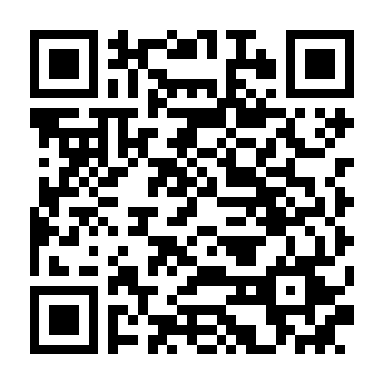
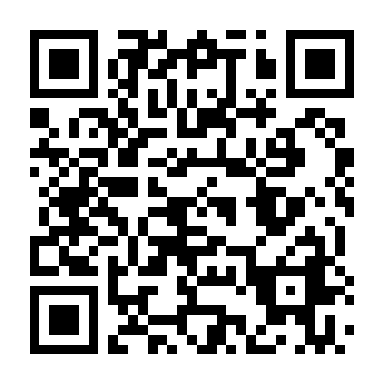
added more PQL/GQ discussion to lec 2.1

diff --git a/F25/lec-2-1/slides-2-1.html b/F25/lec-2-1/slides-2-1.html
@@ -1,21 +1,21 @@
 <!DOCTYPE html>
 <html lang="en"><head>
-<script src="slides-3_files/libs/clipboard/clipboard.min.js"></script>
-<script src="slides-3_files/libs/quarto-html/tabby.min.js"></script>
-<script src="slides-3_files/libs/quarto-html/popper.min.js"></script>
-<script src="slides-3_files/libs/quarto-html/tippy.umd.min.js"></script>
-<link href="slides-3_files/libs/quarto-html/tippy.css" rel="stylesheet">
-<link href="slides-3_files/libs/quarto-html/light-border.css" rel="stylesheet">
-<link href="slides-3_files/libs/quarto-html/quarto-html.min.css" rel="stylesheet" data-mode="light">
-<link href="slides-3_files/libs/quarto-html/quarto-syntax-highlighting.css" rel="stylesheet" id="quarto-text-highlighting-styles"><meta http-equiv="Content-Type" content="text/html; charset=UTF-8">
+<script src="slides-2-1_files/libs/clipboard/clipboard.min.js"></script>
+<script src="slides-2-1_files/libs/quarto-html/tabby.min.js"></script>
+<script src="slides-2-1_files/libs/quarto-html/popper.min.js"></script>
+<script src="slides-2-1_files/libs/quarto-html/tippy.umd.min.js"></script>
+<link href="slides-2-1_files/libs/quarto-html/tippy.css" rel="stylesheet">
+<link href="slides-2-1_files/libs/quarto-html/light-border.css" rel="stylesheet">
+<link href="slides-2-1_files/libs/quarto-html/quarto-html.min.css" rel="stylesheet" data-mode="light">
+<link href="slides-2-1_files/libs/quarto-html/quarto-syntax-highlighting.css" rel="stylesheet" id="quarto-text-highlighting-styles"><meta http-equiv="Content-Type" content="text/html; charset=UTF-8">
 <meta charset="utf-8">
 <meta name="generator" content="quarto-1.3.353">
-<title>slides-3</title>
+<title>slides-2-1</title>
 <meta name="apple-mobile-web-app-capable" content="yes">
 <meta name="apple-mobile-web-app-status-bar-style" content="black-translucent">
 <meta name="viewport" content="width=device-width, initial-scale=1.0, maximum-scale=1.0, user-scalable=no, minimal-ui">
-<link rel="stylesheet" href="slides-3_files/libs/revealjs/dist/reset.css">
-<link rel="stylesheet" href="slides-3_files/libs/revealjs/dist/reveal.css">
+<link rel="stylesheet" href="slides-2-1_files/libs/revealjs/dist/reset.css">
+<link rel="stylesheet" href="slides-2-1_files/libs/revealjs/dist/reveal.css">
 <style>
     code{white-space: pre-wrap;}
     span.smallcaps{font-variant: small-caps;}
@@ -94,13 +94,13 @@
     code span.vs { color: #008000; } /* VerbatimString */
     code span.wa { color: #696969; font-style: italic; } /* Warning */
   </style>
-<link rel="stylesheet" href="slides-3_files/libs/revealjs/dist/theme/quarto.css">
-<link href="slides-3_files/libs/revealjs/plugin/quarto-line-highlight/line-highlight.css" rel="stylesheet">
-<link href="slides-3_files/libs/revealjs/plugin/reveal-menu/menu.css" rel="stylesheet">
-<link href="slides-3_files/libs/revealjs/plugin/reveal-menu/quarto-menu.css" rel="stylesheet">
-<link href="slides-3_files/libs/revealjs/plugin/reveal-chalkboard/font-awesome/css/all.css" rel="stylesheet">
-<link href="slides-3_files/libs/revealjs/plugin/reveal-chalkboard/style.css" rel="stylesheet">
-<link href="slides-3_files/libs/revealjs/plugin/quarto-support/footer.css" rel="stylesheet">
+<link rel="stylesheet" href="slides-2-1_files/libs/revealjs/dist/theme/quarto.css">
+<link href="slides-2-1_files/libs/revealjs/plugin/quarto-line-highlight/line-highlight.css" rel="stylesheet">
+<link href="slides-2-1_files/libs/revealjs/plugin/reveal-menu/menu.css" rel="stylesheet">
+<link href="slides-2-1_files/libs/revealjs/plugin/reveal-menu/quarto-menu.css" rel="stylesheet">
+<link href="slides-2-1_files/libs/revealjs/plugin/reveal-chalkboard/font-awesome/css/all.css" rel="stylesheet">
+<link href="slides-2-1_files/libs/revealjs/plugin/reveal-chalkboard/style.css" rel="stylesheet">
+<link href="slides-2-1_files/libs/revealjs/plugin/quarto-support/footer.css" rel="stylesheet">
 <style type="text/css">
 
   .callout {
@@ -392,7 +392,7 @@
 
 
 <section class="slide level2"><h1>
-Lecture 3: Non-normal outcomes, correlated data, and conditional models
+Lecture 2.1: Non-normal outcomes, correlated data, and conditional models
 </h1>
 <h2>
 PHS 651: Advanced regression methods
@@ -402,7 +402,7 @@ PHS 651: Advanced regression methods
 Mary Ryan Baumann, PhD
 </h3>
 <h3>
-September 24, 2024
+September 16, 2025
 </h3>
 <p><br></p>
 <div style="font-size: 75%;">
@@ -412,12 +412,12 @@ September 24, 2024
 <p><em>The chat box is always open for discussion and questions to the entire class. You may also send messages privately to the instructor. Please note that Zoom saves all chat transcripts.</em></p>
 </div>
 <div class="absolute" style="left: 260px; bottom: 50px; width: 1500px; ">
-<p>Slides found at: <a href="https://maryryan.github.io/PHS-651-slides/PHS-651-3/slides-3" class="uri">https://maryryan.github.io/PHS-651-slides/PHS-651-3/slides-3</a></p>
+<p>Slides found at: <a href="https://maryryan.github.io/PHS-651-slides/F25/lec-2-1/slides-2-1" class="uri">https://maryryan.github.io/PHS-651-slides/F25/lec-2-1/slides-2-1</a></p>
 </div>
 <div class="absolute" style="left: 100px; bottom: 0px; width: 150px; ">
 <div class="cell">
 <div class="cell-output-display">
-<p><img data-src="slides-3_files/figure-revealjs/qr%20code-1.png" width="192"></p>
+<p><img data-src="slides-2-1_files/figure-revealjs/qr%20code-1.png" width="192"></p>
 </div>
 </div>
 </div>
@@ -672,58 +672,81 @@ September 24, 2024
 <ul>
 <li>We usually estimate <span class="math inline">\(Var[\epsilon_{ij}]\)</span> as <span class="math inline">\(p(1-p)\)</span>
 </li>
-</ul></section><section id="some-notes" class="slide level2"><h2>Some notes</h2>
-<p>In order to estimate regression coefficients from the likelihood function for a GLMM, we usually need to do some approximations</p>
+</ul></section><section id="some-notes-on-estimation" class="slide level2"><h2>Some notes on estimation</h2>
+<p>In order to estimate regression coefficients/covariances from the likelihood function for a GLMM, we usually need to do some approximations</p>
 <ul>
 <li>
 <p>There are 2 ways to do this:</p>
 <ol type="1">
 <li><p>Approximate maximum likelihood (penalized quasi-likelihood)</p></li>
-<li><p>Approximate the integral (Gaussian quadrature)</p></li>
+<li><p>Approximate the integral (Gaussian quadrature or Laplace approximation)</p></li>
 </ol>
 </li>
 </ul>
 <div class="fragment">
 <ul>
 <li>
-<p>Either method doesn’t perform well when you have small number of events per cluster, better for count data</p>
+<p>In the last 10-15 years, <span class="alert">Gaussian quadrature</span>/Laplace approximation has become the preferred method (if you don’t want to go Bayesian)</p>
 <ul>
-<li>Method 1 is the worse of the two in small event scenario</li>
+<li><p>However, GQ can get computationally expensive/intensive if you have lots of random effects</p></li>
+<li><p>Laplace approximation is like GQ with only one quadrature point (less precise, but uses fewer computational resources)</p></li>
 </ul>
 </li>
-<li><p>Method 2 can be computationally intense/expensive</p></li>
 </ul>
 </div>
-</section><section id="some-notes-1" class="slide level2"><h2>Some notes</h2>
-<p>There are 2 ways to approximate estimates:</p>
+</section><section id="software-using-gassuain-quadraturelaplace-approximation" class="slide level2"><h2>Software using Gassuain quadrature/Laplace approximation</h2>
+<p>There are several types of functions/procedures out there that use Gaussian quadrature/Laplace approximation, but I’m recommending</p>
+<ul>
+<li>
+<p>In R: <code>glmer()</code></p>
+<ul>
+<li>Other functions (like <code>glmmML()</code> and <code>glmm()</code> ) have trouble extending to longitudinal models</li>
+</ul>
+</li>
+<li>
+<p>In SAS</p>
+<ul>
+<li>
+<p><code>PROC GLIMMIX METHOD=QUAD</code> and <code>PROC NLMIXED METHOD=GAUSS</code> use Gaussian quadrature</p>
+<ul>
+<li>By default, they find the optimal number of quadrature points (adaptive Gaussian quadrature)</li>
+</ul>
+</li>
+<li>
+<p><code>PROC GLIMMIX METHOD=LAPLACE</code> uses Laplace approximation</p>
+<ul>
+<li>Not quite as “accurate” as GQ, but may converge in instances when GQ won’t</li>
+</ul>
+</li>
+</ul>
+</li>
+</ul></section><section id="troubleshooting-convergence-issues" class="slide level2"><h2>Troubleshooting convergence issues</h2>
+<p>Because we need to use approximation to estimate regression coefficients/covariances, sometimes the algorithm won’t converge. There are several possible ways to troubleshoot this.</p>
 <ol type="1">
-<li>Approximate maximum likelihood (penalized quasi-likelihood)</li>
-</ol>
-<ul>
 <li>
-<p><code>glmmPQL()</code> in R and <code>PROC GLIMMIX</code> in SAS</p>
+<p>If using GQ, try changing the number of quadrature points</p>
 <ul>
-<li>Results can be especially unreliable (and different by software) if there are a small number of events per cluster</li>
+<li><p>In SAS, you can specify a specific number of points with the <code>(QPOINTS= )</code> argument</p></li>
+<li><p>In R, you can specify a specific number of points with the <code>nAGQ=</code> argument (default is 1, resulting in Laplace approximation; can also specify 0 if even Laplace won’t converge)</p></li>
+<li><p>Fewer quadrature points will be less precise, but will use fewer computational resources (more likely to converge)</p></li>
 </ul>
 </li>
-</ul>
+</ol></section><section id="troubleshooting-convergence-issues-1" class="slide level2"><h2>Troubleshooting convergence issues</h2>
+<p>Because we need to use approximation to estimate regression coefficients/covariances, sometimes the algorithm won’t converge. There are several possible ways to troubleshoot this.</p>
 <ol start="2" type="1">
-<li>Approximate the integral (Gaussian quadrature)</li>
-</ol>
+<li>
+<p>Change the optimizer and increase the number of max iterations</p>
 <ul>
 <li>
-<p><code>glmmML()</code>, <code>glmm()</code>, and <code>glmer()</code> in R</p>
+<p>In R, you can add the argument <code>control=glmerControl( optimizer="bobyqa", optCtrl=list(maxfun=200000) )</code> to change the optimizer to <code>bobyqa</code> and change the maximum bumber of iterations to 200,000</p>
 <ul>
-<li>First 2 can’t extend to the longitudinal models we’ll get to later</li>
+<li>More iterations = more computation time, so don’t go ham (but should use at least 100,000 here)</li>
 </ul>
 </li>
-<li>
-<p><code>PROC NLMIXED</code>, <code>PROC GLIMMIX METHOD=QUAD(QPOINTS=50)</code> in SAS</p>
-<ul>
-<li>Can extend to longitudinal models, but can take a while to run</li>
+<li><p>In SAS, you can add the argument <code>NLOPTIONS maxiter=1000;</code> to change the maximum number of iterations to 1,000 (no recommended min number here)</p></li>
 </ul>
 </li>
-</ul></section><section id="example-cancer-remission" class="slide level2"><h2>Example: cancer remission</h2>
+</ol></section><section id="example-cancer-remission" class="slide level2"><h2>Example: cancer remission</h2>
 <!-- https://stats.oarc.ucla.edu/r/dae/mixed-effects-logistic-regression/ -->
 <p>Say we want to see whether years of physician experience impacts whether a patient’s lung cancer goes into remission after treatment</p>
 <ul>
@@ -763,7 +786,7 @@ September 24, 2024
 </div>
 </section><section id="example-cancer-remission-2" class="slide level2"><h2>Example: cancer remission</h2>
 <p>Now we should see if there’s any evidence of clustering</p>
-<div class="cell" data-hash="slides-3_cache/revealjs/cancer icc_778742e50e393fca59b0219432863f16">
+<div class="cell" data-hash="slides-2-1_cache/revealjs/cancer icc_84e21f509a08c75b62a0c6d1050e585c">
 <div class="sourceCode cell-code" id="cb3"><pre class="sourceCode numberSource r number-lines code-with-copy"><code class="sourceCode r"><span id="cb3-1"><a href="#cb3-1"></a><span class="fu">library</span>(ICCbin)</span>
 <span id="cb3-2"><a href="#cb3-2"></a></span>
 <span id="cb3-3"><a href="#cb3-3"></a><span class="co"># get ICC for remission outcomes - this function can take a while to run #</span></span>
@@ -1011,7 +1034,7 @@ CancerStageIV  -2.4858983 0.14796101 -16.801036 2.398188e-63</code></pre>
 </div>
   </div>
 
-  <script>window.backupDefine = window.define; window.define = undefined;</script><script src="slides-3_files/libs/revealjs/dist/reveal.js"></script><!-- reveal.js plugins --><script src="slides-3_files/libs/revealjs/plugin/quarto-line-highlight/line-highlight.js"></script><script src="slides-3_files/libs/revealjs/plugin/pdf-export/pdfexport.js"></script><script src="slides-3_files/libs/revealjs/plugin/reveal-menu/menu.js"></script><script src="slides-3_files/libs/revealjs/plugin/reveal-menu/quarto-menu.js"></script><script src="slides-3_files/libs/revealjs/plugin/reveal-chalkboard/plugin.js"></script><script src="slides-3_files/libs/revealjs/plugin/quarto-support/support.js"></script><script src="slides-3_files/libs/revealjs/plugin/notes/notes.js"></script><script src="slides-3_files/libs/revealjs/plugin/search/search.js"></script><script src="slides-3_files/libs/revealjs/plugin/zoom/zoom.js"></script><script src="slides-3_files/libs/revealjs/plugin/math/math.js"></script><script>window.define = window.backupDefine; window.backupDefine = undefined;</script><script>
+  <script>window.backupDefine = window.define; window.define = undefined;</script><script src="slides-2-1_files/libs/revealjs/dist/reveal.js"></script><!-- reveal.js plugins --><script src="slides-2-1_files/libs/revealjs/plugin/quarto-line-highlight/line-highlight.js"></script><script src="slides-2-1_files/libs/revealjs/plugin/pdf-export/pdfexport.js"></script><script src="slides-2-1_files/libs/revealjs/plugin/reveal-menu/menu.js"></script><script src="slides-2-1_files/libs/revealjs/plugin/reveal-menu/quarto-menu.js"></script><script src="slides-2-1_files/libs/revealjs/plugin/reveal-chalkboard/plugin.js"></script><script src="slides-2-1_files/libs/revealjs/plugin/quarto-support/support.js"></script><script src="slides-2-1_files/libs/revealjs/plugin/notes/notes.js"></script><script src="slides-2-1_files/libs/revealjs/plugin/search/search.js"></script><script src="slides-2-1_files/libs/revealjs/plugin/zoom/zoom.js"></script><script src="slides-2-1_files/libs/revealjs/plugin/math/math.js"></script><script>window.define = window.backupDefine; window.backupDefine = undefined;</script><script>
 
       // Full list of configuration options available at:
       // https://revealjs.com/config/
@@ -1019,7 +1042,7 @@ CancerStageIV  -2.4858983 0.14796101 -16.801036 2.398188e-63</code></pre>
 'controlsAuto': true,
 'previewLinksAuto': false,
 'smaller': false,
-'pdfSeparateFragments': false,
+'pdfSeparateFragments': true,
 'autoAnimateEasing': "ease",
 'autoAnimateDuration': 1,
 'autoAnimateUnmatched': true,
